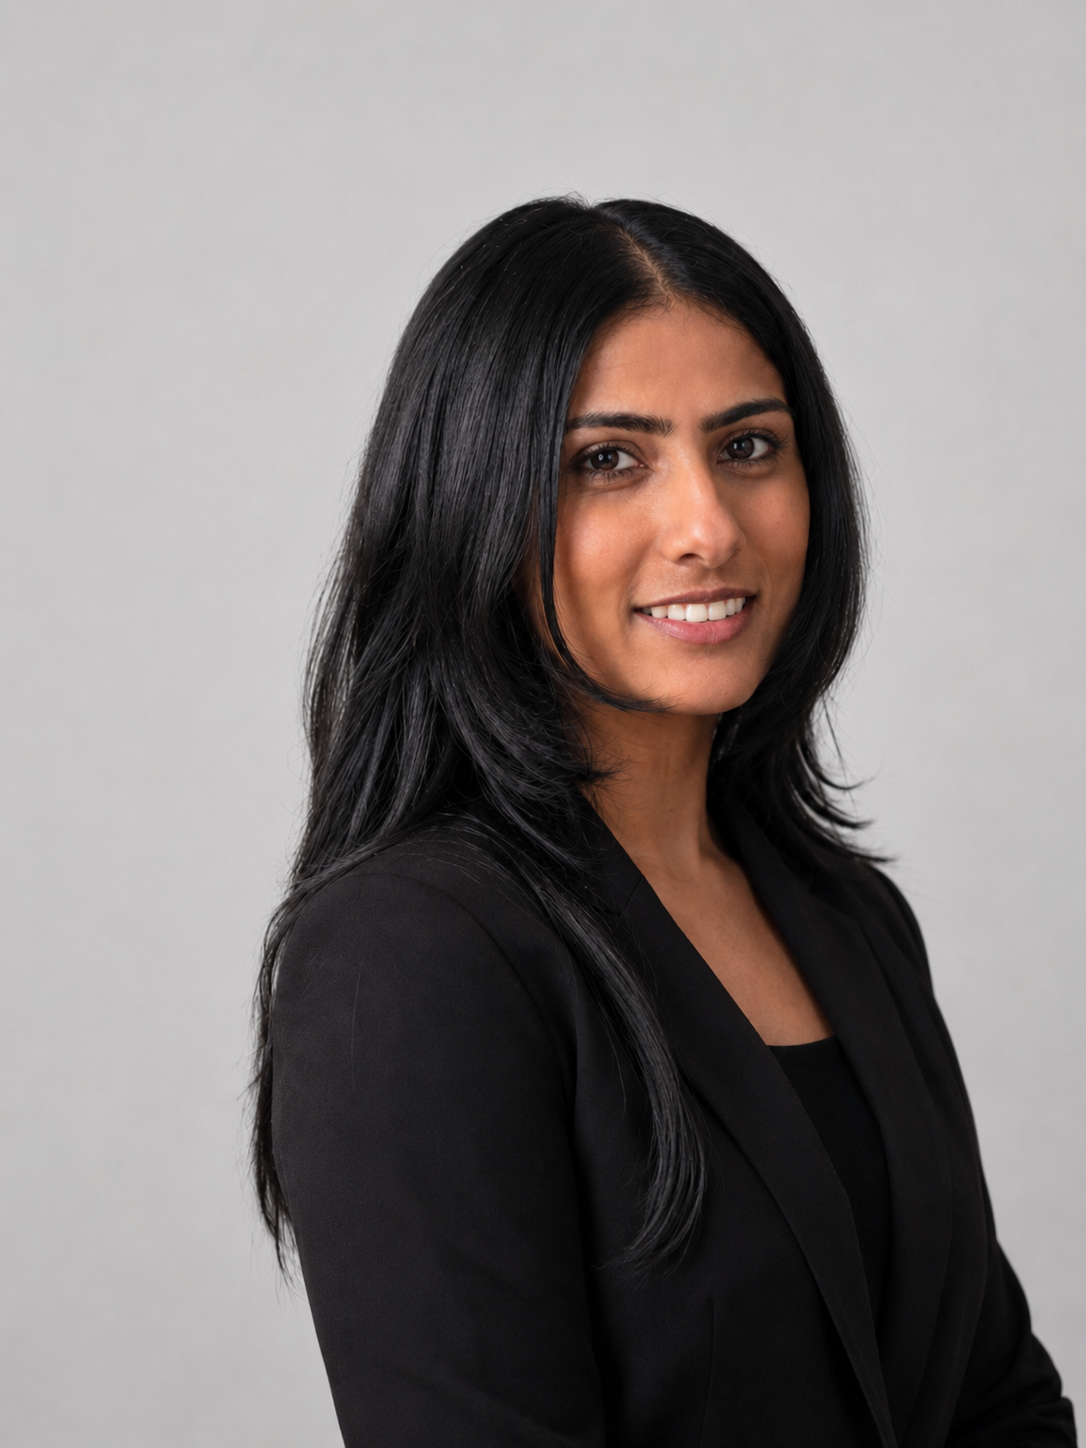
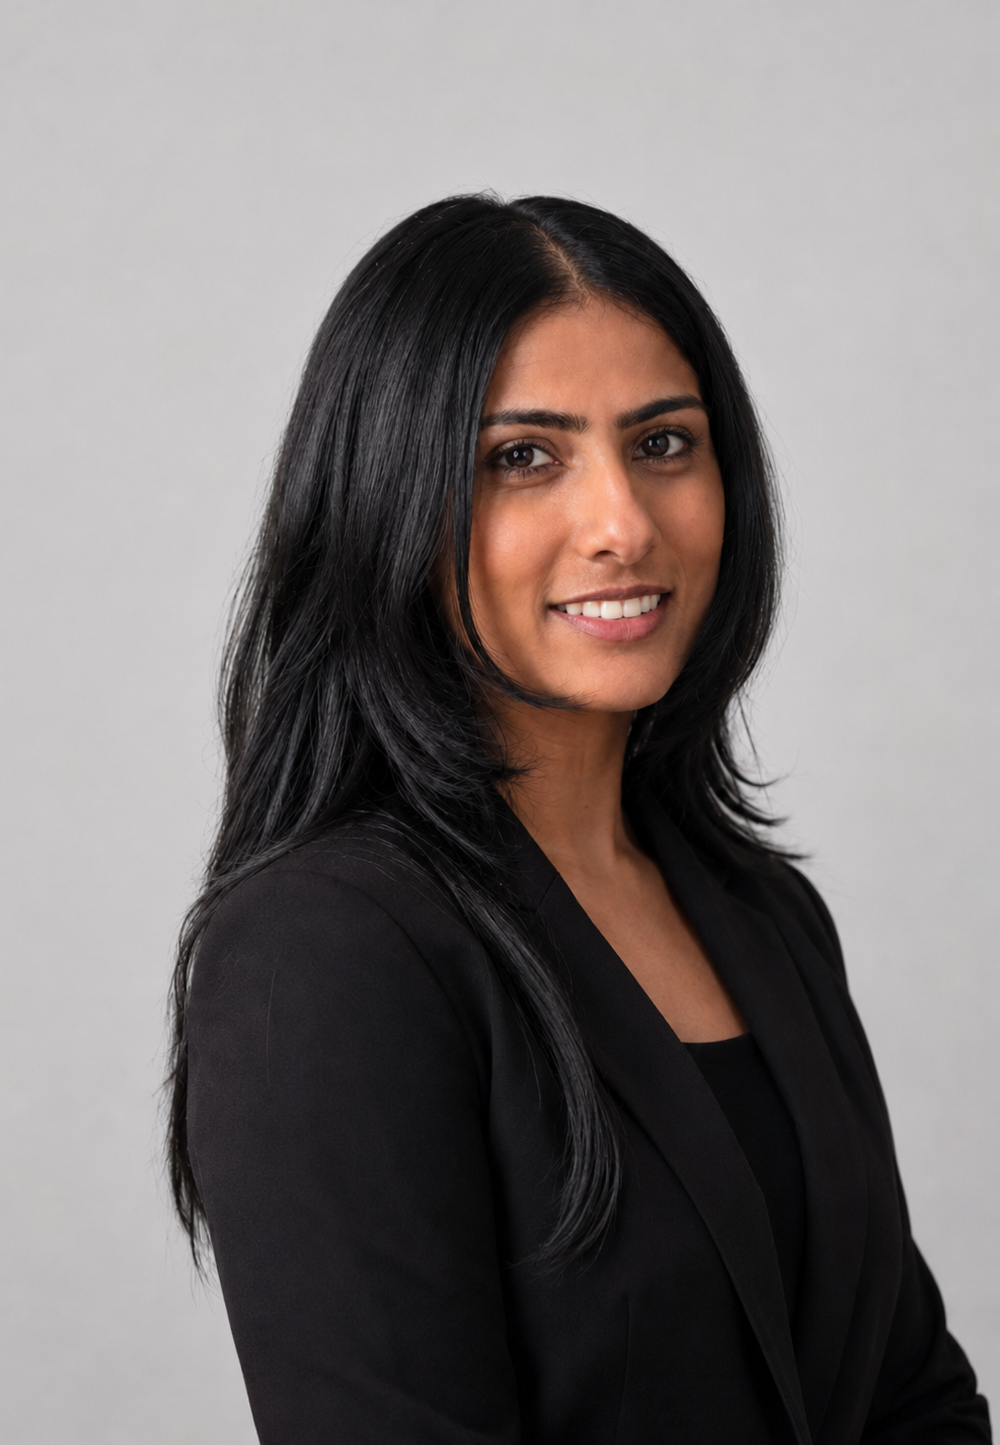
Refine About photo, remove section numbers, reorder, rework Outside work
Center hero photo and re-crop; hide section numbers; move Certifications
after Projects; rename Life to Outside work with full-width intro and
updated captions.

diff --git a/index.html b/index.html
@@ -119,13 +119,12 @@
   .hero-photo {
     position: relative; overflow: hidden;
     background: #B8AFA0;
-    align-self: start;
-    margin-top: 56px;
+    align-self: center;
     height: min(64vh, 500px);
   }
   .hero-photo img {
     width: 100%; height: 100%;
-    object-fit: cover; object-position: center 8%;
+    object-fit: cover; object-position: 42% 28%;
     display: block;
     filter: grayscale(100%) contrast(1.08) brightness(0.95);
   }
@@ -194,11 +193,7 @@
     margin-bottom: 32px; gap: 12px;
   }
   .sec-head-left { display: flex; align-items: baseline; gap: 12px; }
-  .sec-num {
-    font-family: 'Playfair Display', serif;
-    font-size: 11px; font-style: italic;
-    color: var(--brown-lt);
-  }
+  .sec-num { display: none; }
   .sec-title {
     font-family: 'Playfair Display', serif;
     font-size: 22px; font-weight: 600;
@@ -454,6 +449,11 @@
   }
   .life-mini b { display: block; font-size: 13px; font-weight: 500; color: var(--brown); margin-bottom: 2px; }
   .life-mini span { font-size: 11.5px; color: var(--brown-lt); line-height: 1.45; }
+  .life-intro {
+    font-size: 15px; line-height: 1.7;
+    color: var(--brown-mid); max-width: none;
+    margin-bottom: 22px;
+  }
   .life-photo-grid {
     display: grid;
     grid-template-columns: repeat(auto-fit, minmax(190px, 1fr));
@@ -549,11 +549,11 @@
     <a href="#thesis">Thesis</a>
     <a href="#work">Work</a>
     <a href="#education">Education</a>
-    <a href="#certifications">Certifications</a>
     <a href="#projects">Projects</a>
+    <a href="#certifications">Certifications</a>
     <a href="#writing">Writing</a>
     <a href="#books">Books</a>
-    <a href="#life">Life</a>
+    <a href="#life">Outside work</a>
     <div class="sidenav-socials">
       <a href="https://github.com/98ketaki">
         <svg width="12" height="12" viewBox="0 0 24 24" fill="currentColor"><path d="M12 .297c-6.63 0-12 5.373-12 12 0 5.303 3.438 9.8 8.205 11.385.6.113.82-.258.82-.577 0-.285-.01-1.04-.015-2.04-3.338.724-4.042-1.61-4.042-1.61C4.422 18.07 3.633 17.7 3.633 17.7c-1.087-.744.084-.729.084-.729 1.205.084 1.838 1.236 1.838 1.236 1.07 1.835 2.809 1.305 3.495.998.108-.776.417-1.305.76-1.605-2.665-.3-5.466-1.332-5.466-5.93 0-1.31.465-2.38 1.235-3.22-.135-.303-.54-1.523.105-3.176 0 0 1.005-.322 3.3 1.23.96-.267 1.98-.399 3-.405 1.02.006 2.04.138 3 .405 2.28-1.552 3.285-1.23 3.285-1.23.645 1.653.24 2.873.12 3.176.765.84 1.23 1.91 1.23 3.22 0 4.61-2.805 5.625-5.475 5.92.42.36.81 1.096.81 2.22 0 1.606-.015 2.896-.015 3.286 0 .315.21.69.825.57C20.565 22.092 24 17.592 24 12.297c0-6.627-5.373-12-12-12"/></svg>
@@ -578,7 +578,7 @@
         </div>
         <div class="hero-bottom">
           <p class="hero-desc">
-            I have a background in Computational Biology from Carnegie Mellon and experience across the Biotech industry and research labs. My work spans Bioinformatics, AI, and Product Development. I’ve built tools that help scientific teams streamline and automate complex workflows. I also write about advances in AI for biotech, with a focus on practical applications for scientific teams.
+            I have a background in computational biology from Carnegie Mellon and experience across the biotech industry and research labs. My work spans bioinformatics, AI, and product development. I’ve built tools that help scientific teams streamline and automate complex workflows. I also write about advances in AI for biotech, with a focus on practical applications for scientific teams.
           </p>
           <p class="hero-desc">
             Right now, I’m building a platform to help biotech teams preserve context and reasoning across fragmented information, and make better decisions using the knowledge they already have
@@ -610,8 +610,8 @@
       </div>
       <div class="thesis-list">
         <div class="thesis-item">Data is the asset, but the memory of what it meant is the advantage</div>
-        <div class="thesis-item">Recording data and standardization is growing, yet fragmented, leaving recall behind</div>
-        <div class="thesis-item">What if a platform knew the company better than anyone in it?</div>
+        <div class="thesis-item">Biotech teams are recording and standardizing more data than ever, yet it is still fragmented and hard to recall</div>
+        <div class="thesis-item">What if a platform knew the company better than any one person in it?</div>
       </div>
     </section>
 
@@ -630,7 +630,7 @@
           <div>
             <div class="work-role">Bioinformatics Product Manager</div>
             <div class="work-org">Creyon Bio</div>
-            <div class="work-desc">Launched an AI-driven target discovery tool that cut scientific evaluation by ~3h per target; delivered end-to-end assay data workflows that reduced analysis time 50%+; drove company-wide responsible GenAI adoption.</div>
+            <div class="work-desc">Launched an AI-driven target discovery tool that cut scientific evaluation by ~3h per target. Delivered end-to-end assay data workflows that reduced analysis time 50%+. Drove company-wide responsible GenAI adoption.</div>
           </div>
         </div>
         <div class="work-row">
@@ -639,7 +639,7 @@
           <div>
             <div class="work-role">Bioinformatics Data Analyst</div>
             <div class="work-org">Creyon Bio</div>
-            <div class="work-desc">Improved a LightGBM treatment-tolerability model (PR-AUC +4%) and deployed high-throughput NGS pipelines via Snakemake; built real-time dashboards that accelerated experimental feedback and analysis turnaround.</div>
+            <div class="work-desc">Improved a LightGBM treatment-tolerability model (PR-AUC +4%). Deployed high-throughput NGS pipelines via Snakemake. Built real-time dashboards that accelerated experimental feedback and analysis turnaround.</div>
           </div>
         </div>
         <div class="work-row">
@@ -648,7 +648,7 @@
           <div>
             <div class="work-role">Computational Biologist</div>
             <div class="work-org">Jefferson Health</div>
-            <div class="work-desc">Differential gene expression (edgeR) and GSEA to uncover biological pathways; Python visualizations communicating findings clearly to wet-lab collaborators.</div>
+            <div class="work-desc">Analyzed differential gene expression to uncover biological pathways. Created Python visualizations to communicate findings clearly to wet-lab collaborators.</div>
           </div>
         </div>
         <div class="work-row">
@@ -657,7 +657,7 @@
           <div>
             <div class="work-role">Computational Science Intern</div>
             <div class="work-org">Moderna</div>
-            <div class="work-desc">eCLIP data ingestion system with automated preprocessing, peak calling, motif extraction, and a user-facing front end for biologists to explore results without writing code.</div>
+            <div class="work-desc">eCLIP data ingestion system with automated preprocessing, peak calling, motif extraction.</div>
           </div>
         </div>
         <div class="work-row">
@@ -666,7 +666,7 @@
           <div>
             <div class="work-role">Junior Analyst</div>
             <div class="work-org">Axiom Healthcare Strategies</div>
-            <div class="work-desc">Competitive intelligence in oncology: clinical trial analysis, conference proceedings, and strategic forecasting.</div>
+            <div class="work-desc">Competitive intelligence in oncology, clinical trial analysis, conference proceedings, and strategic forecasting.</div>
           </div>
         </div>
       </div>
@@ -698,30 +698,6 @@
             <div class="work-org">M.S. Ramaiah Institute of Technology, Bengaluru, India</div>
             <div class="work-desc">Co-founder, Numera Math &amp; Logic Club</div>
           </div>
-        </div>
-      </div>
-    </section>
-
-    <!-- CERTIFICATIONS -->
-    <section id="certifications" class="sec">
-      <div class="sec-head">
-        <div class="sec-head-left">
-          <span class="sec-num">04</span>
-          <span class="sec-title">Certifications</span>
-        </div>
-      </div>
-      <div class="now-grid">
-        <div class="now-card">
-          <div class="now-card-label">365 Data Science</div>
-          <div class="now-card-val">AI Product Manager</div>
-        </div>
-        <div class="now-card">
-          <div class="now-card-label">Scrum.org</div>
-          <div class="now-card-val">Professional Scrum Master I</div>
-        </div>
-        <div class="now-card">
-          <div class="now-card-label">UC San Diego</div>
-          <div class="now-card-val">Drug Commercialization</div>
         </div>
       </div>
     </section>
@@ -878,6 +854,30 @@
       </div>
     </section>
 
+    <!-- CERTIFICATIONS -->
+    <section id="certifications" class="sec">
+      <div class="sec-head">
+        <div class="sec-head-left">
+          <span class="sec-num">04</span>
+          <span class="sec-title">Certifications</span>
+        </div>
+      </div>
+      <div class="now-grid">
+        <div class="now-card">
+          <div class="now-card-label">365 Data Science</div>
+          <div class="now-card-val">AI Product Manager</div>
+        </div>
+        <div class="now-card">
+          <div class="now-card-label">Scrum.org</div>
+          <div class="now-card-val">Professional Scrum Master I</div>
+        </div>
+        <div class="now-card">
+          <div class="now-card-label">UC San Diego</div>
+          <div class="now-card-val">Drug Commercialization</div>
+        </div>
+      </div>
+    </section>
+
     <!-- WRITING -->
     <section id="writing" class="sec">
       <div class="sec-head">
@@ -954,33 +954,29 @@
       <div class="sec-head">
         <div class="sec-head-left">
           <span class="sec-num">08</span>
-          <span class="sec-title">Life</span>
+          <span class="sec-title">Outside work</span>
         </div>
       </div>
-      <div class="life-mini-grid">
-        <div class="life-mini"><b>Coffee</b><span> Andytown beans and latte art.</span></div>
-        <div class="life-mini"><b>Running</b><span>Training towards 10K.</span></div>
-        <div class="life-mini"><b>Pull up</b><span>Working towards the first one.</span></div>
-        <div class="life-mini"><b>Graphic design</b><span>On the side</span></div>
-      </div>
+      <p class="life-intro">Currently learning latte art, training for a 10K, working toward my first pull-up, and designing things in Canva for fun.</p>
       <div class="life-photo-grid">
         <div class="life-card">
-          <div class="life-card-ph"><img src="photos/latte-art.jpg" alt="Coffee" style="object-position:center 28%"></div>
+          <div class="life-card-ph"><img src="photos/latte-art.jpg" alt="First rosetta" style="object-position:center 28%"></div>
           <div class="life-card-body">
-            <div class="life-card-title">First rosetta latte art</div>
+            <div class="life-card-title">First rosetta</div>
           </div>
         </div>
         <div class="life-card">
-          <div class="life-card-ph"><img src="photos/hiking.JPG" alt="Hiking @ Zion"></div>
+          <div class="life-card-ph"><img src="photos/hiking.JPG" alt="Hiking in Zion"></div>
           <div class="life-card-body">
-            <div class="life-card-title">Hiking at Zion</div>
+            <div class="life-card-title">Hiking in Zion</div>
           </div>
         </div>
         <div class="life-card">
-          <div class="life-card-ph"><img src="photos/yoga.png" alt="Yoga"></div>
+          <div class="life-card-ph"><img src="photos/yoga.png" alt="Sunset yoga in San Diego"></div>
           <div class="life-card-body">
-            <div class="life-card-title">Yoga at San Diego beach</div>
+            <div class="life-card-title">Sunset yoga in San Diego</div>
           </div>
+        </div>
       </div>
     </section>
 
@@ -1016,7 +1012,7 @@
   document.addEventListener('DOMContentLoaded', () => {
     filterProjects('ai');
     document.querySelector('.filter-btn').classList.add('active');
-    const sections = ['about','thesis','work','education','certifications','projects','writing','books','life','contact'];
+    const sections = ['about','thesis','work','education','projects','certifications','writing','books','life','contact'];
     const links = document.querySelectorAll('.sidenav a[href^="#"]');
     const els = sections.map(id => document.getElementById(id)).filter(Boolean);
     const LINE = 150; // px below the top of the viewport